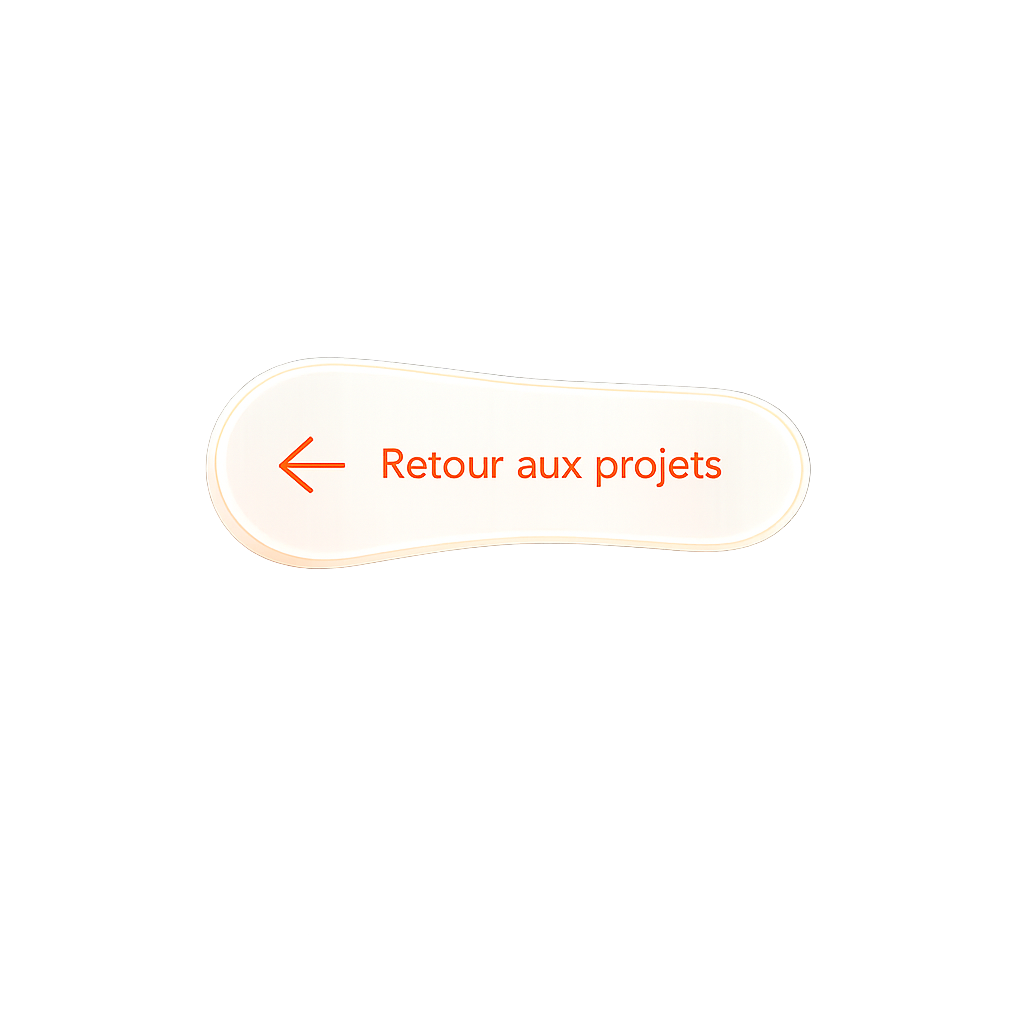
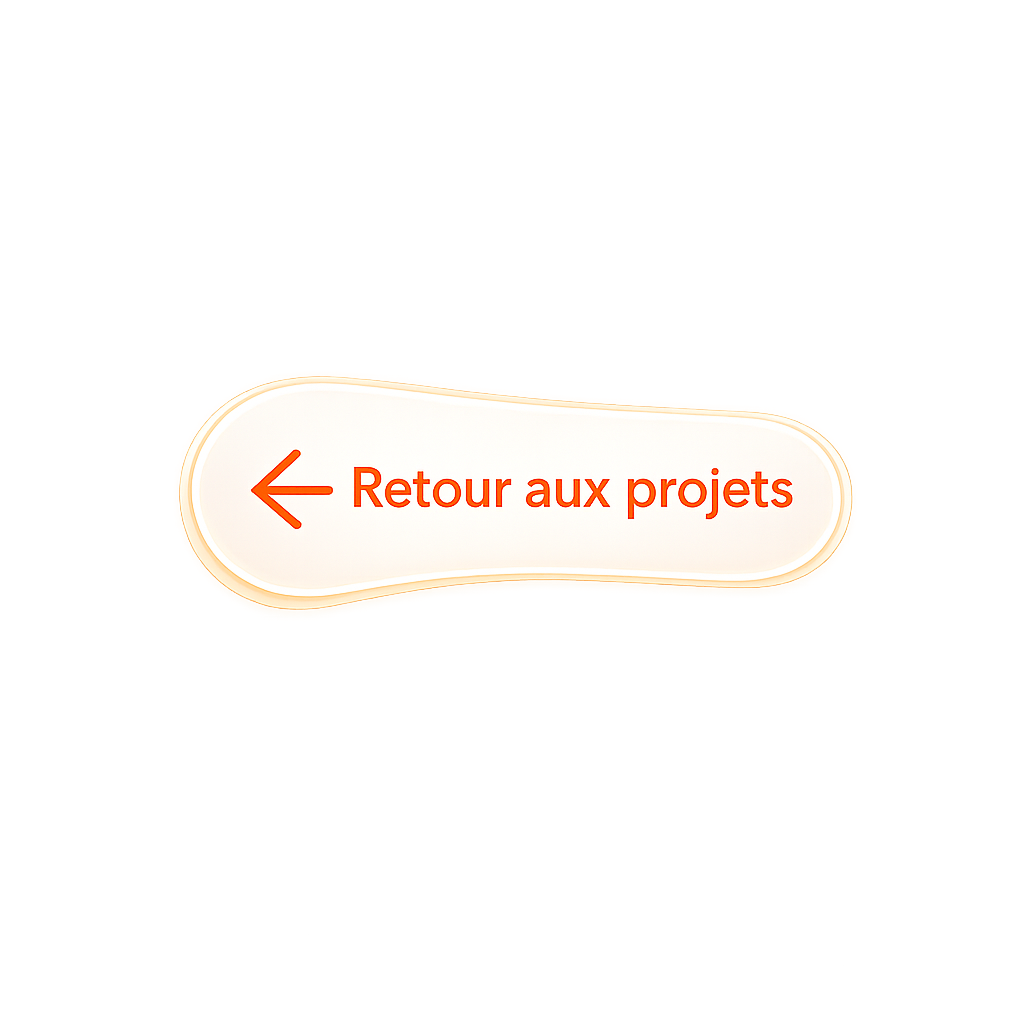
style: add footer and fix home-content on center

Changed region(s): [[0.1562, 0.4062, 0.8125, 0.5938], [0.2188, 0.3438, 0.75, 0.4062], [0.75, 0.4062, 0.8438, 0.5312]]

diff --git a/client/src/components/footer/Footer.tsx b/client/src/components/footer/Footer.tsx
@@ -1,0 +1,71 @@
+import "./footer.css";
+
+const LINKS = [
+  {
+    label: "GitHub",
+    href: "https://github.com/Effy93/HelperTask",
+    icon: (
+      <svg viewBox="0 0 24 24" aria-hidden="true" focusable="false">
+        <path d="M12 2C6.477 2 2 6.477 2 12c0 4.418 2.865 8.166 6.839 9.489.5.092.682-.217.682-.482 0-.237-.009-.868-.013-1.703-2.782.605-3.369-1.34-3.369-1.34-.454-1.154-1.11-1.462-1.11-1.462-.908-.62.069-.608.069-.608 1.003.07 1.531 1.03 1.531 1.03.892 1.529 2.341 1.087 2.91.832.092-.647.35-1.088.636-1.338-2.22-.253-4.555-1.11-4.555-4.943 0-1.091.39-1.984 1.029-2.683-.103-.253-.446-1.27.098-2.647 0 0 .84-.269 2.75 1.025A9.578 9.578 0 0 1 12 6.836c.85.004 1.705.115 2.504.337 1.909-1.294 2.747-1.025 2.747-1.025.546 1.377.202 2.394.1 2.647.64.699 1.028 1.592 1.028 2.683 0 3.842-2.339 4.687-4.566 4.935.359.309.678.919.678 1.852 0 1.336-.012 2.415-.012 2.743 0 .267.18.578.688.48C19.138 20.163 22 16.418 22 12c0-5.523-4.477-10-10-10z" />
+      </svg>
+    ),
+  },
+  {
+    label: "LinkedIn",
+    href: "https://www.linkedin.com/in/eva-philippo-7264b7161/",
+    icon: (
+      <svg viewBox="0 0 24 24" aria-hidden="true" focusable="false">
+        <path d="M20.447 20.452h-3.554v-5.569c0-1.328-.027-3.037-1.852-3.037-1.853 0-2.136 1.445-2.136 2.939v5.667H9.351V9h3.414v1.561h.046c.477-.9 1.637-1.85 3.37-1.85 3.601 0 4.267 2.37 4.267 5.455v6.286zM5.337 7.433a2.062 2.062 0 0 1-2.063-2.065 2.064 2.064 0 1 1 2.063 2.065zm1.782 13.019H3.555V9h3.564v11.452zM22.225 0H1.771C.792 0 0 .774 0 1.729v20.542C0 23.227.792 24 1.771 24h20.451C23.2 24 24 23.227 24 22.271V1.729C24 .774 23.2 0 22.222 0h.003z" />
+      </svg>
+    ),
+  },
+  {
+    label: "Portfolio",
+    href: "#",
+    icon: (
+      <svg viewBox="0 0 24 24" aria-hidden="true" focusable="false">
+        <path d="M12 2a10 10 0 1 0 0 20A10 10 0 0 0 12 2zm-1 17.93V18a1 1 0 0 0-1-1H8A8.001 8.001 0 0 1 4.07 13H5a2 2 0 0 0 2-2v-1a2 2 0 0 0-2-2H4.07A8.001 8.001 0 0 1 11 4.07V5a2 2 0 0 0 2 2h1a2 2 0 0 0 2-2v-.07a8.001 8.001 0 0 1 5.93 5.14V9a2 2 0 0 0-2 2h-1a1 1 0 0 0-1 1v4a1 1 0 0 0 1 1h.27A8.003 8.003 0 0 1 13 19.93V19a1 1 0 0 0-1-1h-.07c.04-.33.07-.66.07-1z" />
+      </svg>
+    ),
+  },
+];
+
+export default function Footer() {
+  return (
+    <footer className="footer">
+      <div className="footer__inner">
+        <p className="footer__credit">
+          Made by <span className="footer__name">Eva Philippo</span>
+          <span className="footer__separator" aria-hidden="true">
+            ·
+          </span>
+          <span className="footer__copy">
+            © {new Date().getFullYear()} Task Helper
+          </span>
+        </p>
+
+        <ul className="footer__links" aria-label="Réseaux sociaux">
+          {LINKS.map(({ label, href, icon }) => (
+            <li key={label}>
+              <a
+                href={href}
+                className="footer__link"
+                target={href === "#" ? undefined : "_blank"}
+                rel={href === "#" ? undefined : "noopener noreferrer"}
+                aria-label={label}
+                title={
+                  label === "Portfolio"
+                    ? "Portfolio (bientôt disponible)"
+                    : label
+                }
+              >
+                {icon}
+                <span className="footer__link-label">{label}</span>
+              </a>
+            </li>
+          ))}
+        </ul>
+      </div>
+    </footer>
+  );
+}

diff --git a/client/src/components/footer/footer.css b/client/src/components/footer/footer.css
@@ -1,0 +1,136 @@
+/* ========================= */
+/* FOOTER                    */
+/* ========================= */
+.footer {
+  position: relative;
+  width: 100%;
+  background: rgba(255, 249, 245, 0.62);
+  backdrop-filter: blur(6px);
+  -webkit-backdrop-filter: blur(6px);
+  border-top: 1px solid var(--color-primary);
+}
+
+/* ligne dégradée symétrique au header */
+.footer::before {
+  content: "";
+  position: absolute;
+  top: 0;
+  left: 50%;
+  transform: translateX(-50%);
+  width: 65%;
+  height: 1px;
+  background: linear-gradient(
+    90deg,
+    transparent,
+    rgba(252, 119, 83, 0.55),
+    transparent
+  );
+}
+
+.footer__inner {
+  display: flex;
+  justify-content: space-between;
+  align-items: center;
+  flex-wrap: wrap;
+  gap: 0.75rem;
+  max-width: 1200px;
+  margin: 0 auto;
+  padding: 1rem 2rem;
+}
+
+/* ========================= */
+/* CRÉDITS                   */
+/* ========================= */
+.footer__credit {
+  display: flex;
+  align-items: center;
+  flex-wrap: wrap;
+  gap: 0.4rem;
+  font-size: 0.875rem;
+  color: var(--color-text-muted);
+}
+
+.footer__name {
+  color: var(--color-primary);
+  font-weight: 600;
+}
+
+.footer__separator {
+  color: var(--color-accent);
+}
+
+.footer__copy {
+  color: var(--color-text-muted);
+}
+
+/* ========================= */
+/* LIENS RÉSEAUX             */
+/* ========================= */
+.footer__links {
+  display: flex;
+  align-items: center;
+  gap: 1.25rem;
+  list-style: none;
+  margin: 0;
+  padding: 0;
+}
+
+.footer__link {
+  display: flex;
+  align-items: center;
+  gap: 0.35rem;
+  color: var(--color-text-muted);
+  text-decoration: none;
+  font-size: 0.8rem;
+  font-weight: 500;
+  transition: color 0.25s ease, transform 0.25s ease;
+}
+
+.footer__link svg {
+  width: 18px;
+  height: 18px;
+  fill: currentColor;
+  flex-shrink: 0;
+  transition: transform 0.25s ease;
+}
+
+.footer__link:hover,
+.footer__link:focus-visible {
+  color: var(--color-primary);
+  transform: translateY(-2px);
+}
+
+.footer__link:hover svg {
+  transform: scale(1.15);
+}
+
+.footer__link:focus-visible {
+  outline: 2px solid var(--color-primary);
+  outline-offset: 3px;
+  border-radius: 4px;
+}
+
+/* ========================= */
+/* RESPONSIVE MOBILE         */
+/* ========================= */
+@media (max-width: 600px) {
+  .footer__inner {
+    flex-direction: column;
+    align-items: center;
+    text-align: center;
+    padding: 0.9rem 1rem;
+  }
+
+  .footer__links {
+    gap: 1rem;
+  }
+
+  .footer__link-label {
+    display: none;
+  }
+
+  .footer__link svg {
+    width: 20px;
+    height: 20px;
+  }
+}

diff --git a/client/src/App.tsx b/client/src/App.tsx
@@ -1,4 +1,5 @@
 import { Outlet } from "react-router-dom";
+import Footer from "./components/footer/Footer";
 import Header from "./components/header/Header";
 
 function App() {
@@ -9,6 +10,8 @@ function App() {
       <main className="main">
         <Outlet />
       </main>
+
+      <Footer />
     </>
   );
 }

diff --git a/client/src/styles/home.css b/client/src/styles/home.css
@@ -1,8 +1,9 @@
 .home {
-  height: 100vh;
+  flex: 1;
   display: flex;
   justify-content: center;
   align-items: center;
+  padding: 2rem 1rem;
 }
 
 .home-content {

diff --git a/client/src/App.css b/client/src/App.css
@@ -34,6 +34,9 @@ body::before {
 }
 
 main {
+  flex: 1;
+  display: flex;
+  flex-direction: column;
   padding-top: 120px;
 }
 
